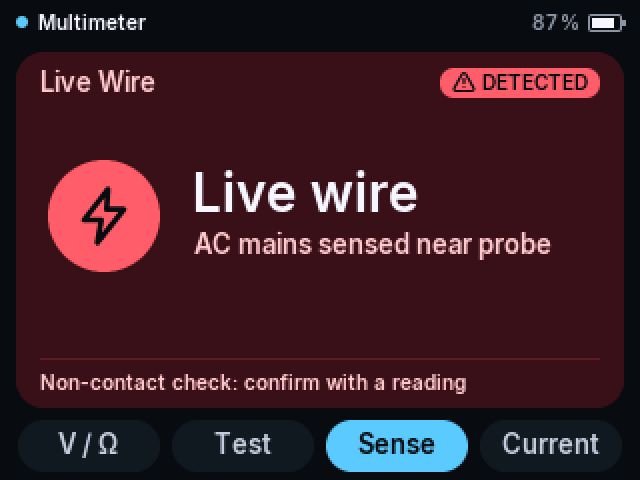
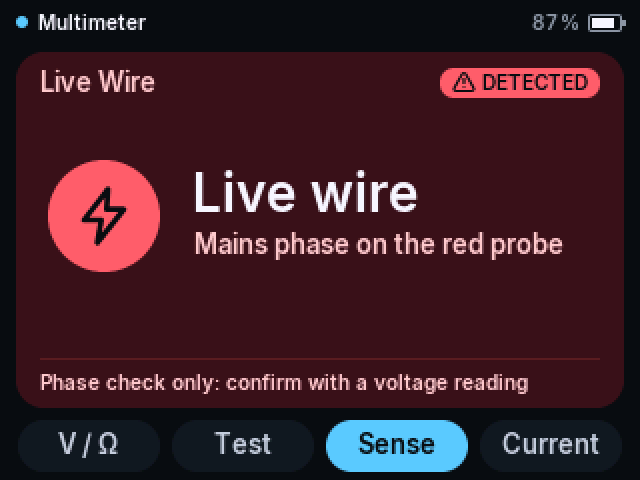
Live wire: correct the instructions; DMM diag shows the raw meter frame
- The Live Wire mode is a single-probe phase check, not non-contact:
  the cards now say to touch the red probe to the wire
- DMM_DIAG builds show the last raw meter frame (bytes 2-8) and why it
  was accepted or rejected in the live-wire card footer, to find what the
  HW4.0 meter IC sends when it detects a live phase

Claude-Session: https://claude.ai/code/session_01Kv6oatwWU24KbGdouJSCgU

Changed region(s): [[0.2812, 0.4688, 0.875, 0.5625], [0.0625, 0.7812, 0.8438, 0.8438]]

diff --git a/src/dmm.c b/src/dmm.c
@@ -655,6 +655,18 @@ static uint8_t format_value(const uint8_t frame[DMM_FRAME_LEN], const char *unit
 // and how many were accepted or rejected by the checks below.
 static uint16_t dmm_diag_frames;
 static uint16_t dmm_diag_accepted;
+// The last frame taken and what parse_frame made of it:
+// 0 accepted, 1 bad header, 2 undecodable digits, 3 number without unit,
+// 4 text the firmware does not know, 5 not valid for the current mode.
+static uint8_t dmm_diag_frame[DMM_FRAME_LEN];
+static uint8_t dmm_diag_status;
+
+void dmm_diag_last_frame(uint8_t out[9], uint8_t *status) {
+    for (uint8_t i = 0; i < DMM_FRAME_LEN; ++i) {
+        out[i] = dmm_diag_frame[i];
+    }
+    *status = dmm_diag_status;
+}
 
 void dmm_diag_counters(uint16_t *frames, uint16_t *accepted) {
     *frames = dmm_diag_frames;
@@ -668,22 +680,30 @@ static uint8_t parse_frame(const uint8_t frame[DMM_FRAME_LEN]) {
     uint8_t new_numeric;
     uint8_t changed;
 
+    for (uint8_t i = 0; i < DMM_FRAME_LEN; ++i) {
+        dmm_diag_frame[i] = frame[i];
+    }
+    dmm_diag_status = 1;
     if (frame[0] != 0x5Au || frame[1] != 0xA5u) {
         return 0;
     }
     uint8_t new_fahrenheit = format_unit(frame[6], frame[7], frame[8], new_unit);
+    dmm_diag_status = 2;
     if (!format_value(frame, new_unit, new_value)) {
         return 0;
     }
     new_numeric = parse_fixed_units(new_value, &new_fixed);
+    dmm_diag_status = 3;
     if (new_numeric) {
         if (!new_unit[0] && dmm_current_mode != 6u && dmm_current_mode != 4u) {
             return 0;
         }
     } else if (!text_equal(new_value, "AUTO") && !text_equal(new_value, "OPEN") &&
                !text_equal(new_value, "L1UE") && !text_equal(new_value, "00L0")) {
+        dmm_diag_status = 4;
         return 0;
     }
+    dmm_diag_status = 5;
     // A well-formed old-mode packet still confirms the UART clock, but must not change the display.
     dmm_baud_locked = 1;
     if (!dmm_reading_compatible(new_value, new_unit, new_numeric)) {
@@ -691,6 +711,7 @@ static uint8_t parse_frame(const uint8_t frame[DMM_FRAME_LEN]) {
     }
 
     ++dmm_diag_accepted;
+    dmm_diag_status = 0;
     changed = (uint8_t)(!dmm_valid || !text_equal(new_value, dmm_value) ||
                         !text_equal(new_unit, dmm_unit) || new_fahrenheit != dmm_unit_fahrenheit);
     text_copy(dmm_value, new_value, sizeof(dmm_value));

diff --git a/src/ui.c b/src/ui.c
@@ -4234,7 +4234,30 @@ static void dmm_draw_state_card(uint16_t card, uint16_t sub, uint16_t accent, ui
     }
 
     lcd_rect(DMM_IN_X, DMM_CARD_Y + DMM_TALL_H - 25u, DMM_IN_W, 1, line);
+#if DMM_DIAG
+    {
+        // Raw meter frame bytes 2-8 and the parse result (0 = accepted).
+        static const char hex[] = "0123456789ABCDEF";
+        uint8_t raw[9];
+        uint8_t status;
+        char text[32];
+        uint8_t n = 0;
+        dmm_diag_last_frame(raw, &status);
+        for (uint8_t i = 2; i < 9u; ++i) {
+            text[n++] = hex[raw[i] >> 4];
+            text[n++] = hex[raw[i] & 15u];
+            text[n++] = ' ';
+        }
+        text[n++] = 's';
+        text[n++] = (char)('0' + status);
+        text[n] = 0;
+        gfx_text(DMM_IN_X, DMM_CARD_Y + DMM_TALL_H - 19, &font_small, text, D_AMBER, card);
+        footer_right = 0;
+        (void)footer_left;
+    }
+#else
     gfx_text(DMM_IN_X, DMM_CARD_Y + DMM_TALL_H - 19, &font_small, footer_left, sub, card);
+#endif
     if (footer_right) {
         gfx_text_right(DMM_IN_X + DMM_IN_W, DMM_CARD_Y + DMM_TALL_H - 19, &font_small, footer_right, sub, card);
     }
@@ -4247,13 +4270,13 @@ static void draw_dmm_immersive_panel(void) {
         if (dmm_live_wire_detected()) {
             dmm_draw_state_card(D_RED_CARD, D_RED_SUB, D_RED, D_RED_LINE, D_RED, D_BG, 1,
                                 ICON_ALERT_SM, "DETECTED", D_RED, D_BG, "Live wire", D_TEXT,
-                                "AC mains sensed near probe", 0,
-                                "Non-contact check: confirm with a reading", 0);
+                                "Mains phase on the red probe", 0,
+                                "Phase check only: confirm with a voltage reading", 0);
         } else {
             dmm_draw_state_card(D_CARD, D_SUB, D_ACCENT, D_TRACK, D_TRACK, D_MUTED, 1,
                                 0, "SCANNING", D_ACCENT_TINT, D_ACCENT, "No live wire", D_SUB,
-                                "Hold the probe near a conductor", 0,
-                                "Beeps when mains voltage is sensed", 0);
+                                "Touch the red probe to the wire", 0,
+                                "Red lead in the V jack; beeps on a live phase", 0);
         }
         return;
     }

diff --git a/src/dmm.h b/src/dmm.h
@@ -26,3 +26,4 @@ uint8_t dmm_live_wire_active(void);
 uint8_t dmm_diode_continuity_active(void);
 void dmm_uart_irq_handler(void);
 void dmm_diag_counters(uint16_t *frames, uint16_t *accepted);
+void dmm_diag_last_frame(uint8_t out[9], uint8_t *status);
